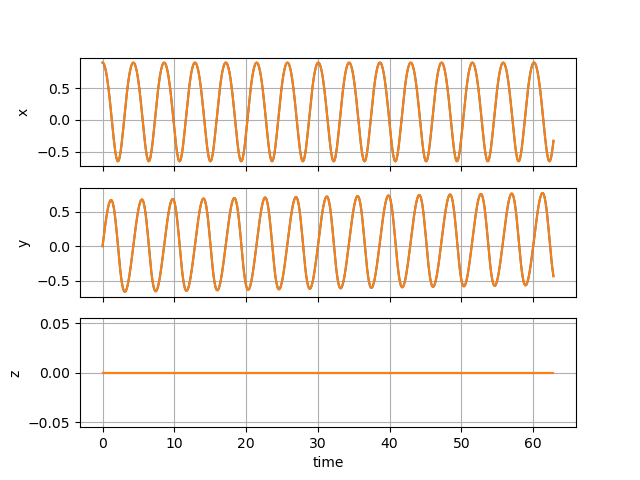
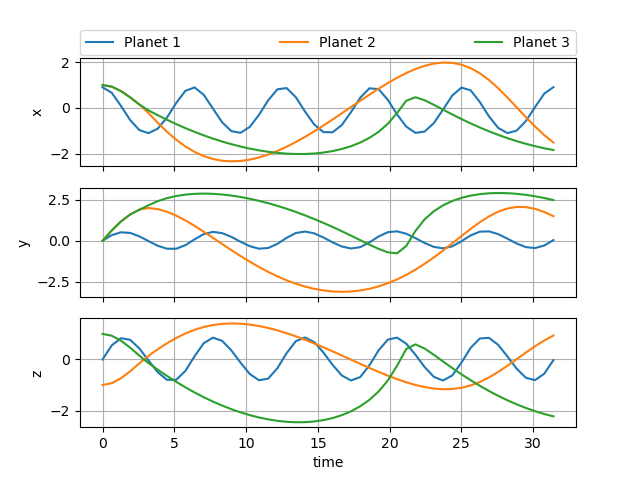
modification graphics

diff --git a/python/visualize_orbit.py b/python/visualize_orbit.py
@@ -3,15 +3,15 @@ import rebound
 import numpy as np
 import matplotlib
 import matplotlib.pyplot as plt
-# Create Simulation object
+#--------------- Create Simulation object
 def setup():
     sim = rebound.Simulation()
     sim.add( m=1. )                         # sun
     sim.add( m=1e-3, a=1., e=0.1, inc = 45 )          # Planet 1 (Jupiter)
-    sim.add( m=1e-3, a=1.001, e=0.1, inc = 0 )           # lesser Planet 2 (fictional)
-    # sim.add( m=1e-6, a=1., e=0.2, inc = 0 )         # Planet 3 (fictional)
+    sim.add(m=1e-3, x=1., y=0., z= -1., vx=0, vy=1, vz=0 )           # lesser Planet 2 (fictional)
+    sim.add( m=1e-3, x=1., y=0., z= 1., vx=0, vy=1, vz=0 )         # Planet 3 (fictional)
     return sim
-
+#------------- calculate
 def PAFintegrate(arbsim ,tmax, Ntimes):
     # setting time scale
     times = np.linspace(0,tmax,Ntimes)
@@ -29,52 +29,62 @@ def PAFintegrate(arbsim ,tmax, Ntimes):
         for k in range(1,arbsim.N,1):
             x[i,k-1] = particles[k].x
             y[i,k-1] = particles[k].y
+            z[i,k-1] = particles[k].z
     return arbsim, times, x, y, z
 
-sim1 = setup()
-tmax = 10 * 2*np.pi
-Ntimes = 1000
-sim1, times, x, y, z = PAFintegrate(sim1, tmax, Ntimes)
 #-------------------- test plotting ----------------------------
 # fig1 = plt.figure(figsize=(5,5))
 # plt.plot(times2,x2)
 # fig1.savefig("test.png")
-#--------------------   plotting    ----------------------------
-def plotabsolutes(x,y,z):
+#--------------------   plotting xyz   ----------------------------
+def plotabsolutes(x,y,z,n):
     axes = ()
     fig1, (ax1,ax2,ax3) = plt.subplots(3, 1)
-
     ax1 = plt.subplot(311)
-    ax1.set( ylabel= 'x')
-    ax1.plot(times, x)
-    plt.setp(ax1.get_xticklabels(), visible=False)
-    ax1.grid()
-    #---------
     ax2 = plt.subplot(312, sharex=ax1)
-    ax2.set(ylabel = 'y')
-    ax2.plot(times,y)
-    plt.setp(ax2.get_xticklabels(), visible=False)
-    ax2.grid()
-    #---------
     ax3 = plt.subplot(313, sharex=ax1)
-    ax3.set(xlabel = 'time', ylabel = 'z')
-    ax3.plot(times,z)
-    ax3.grid()
+    for k in range(n):
+        ax1.set( ylabel= 'x')
+        ax1.plot(times, x[:,k], label = 'Planet %d' %(k+1))
+        plt.setp(ax1.get_xticklabels(), visible=False)
+        ax1.grid()
+        ax1.legend(bbox_to_anchor=(0., 1.02, 1., .102), loc='lower left',
+           ncol=n, mode="expand", borderaxespad=0.)
+        # ax1.legend()
+        #---------
+        ax2.set(ylabel = 'y')
+        ax2.plot(times,y[:,k])
+        plt.setp(ax2.get_xticklabels(), visible=False)
+        ax2.grid()
+        #---------
+        ax3.set(xlabel = 'time', ylabel = 'z')
+        ax3.plot(times,z[:,k])
+        ax3.grid()
+
 
     fig1.savefig('real1.png')
-
-def plotphase(x,y):
+#------------------ plot phase diagram (only useful for two coordinate)
+def plotphase(x1,x2):
     fig, ax1 = plt.subplots(1,1)
-    ax1.set(ylabel ='y', xlabel = 'x')
-    ax1.plot(x,y)
+    ax1.set(ylabel ='x2', xlabel = 'x1')
+    ax1.plot(x1,x2,'o-')
     ax1.grid()
     fig.savefig('real2.png')
 
+def PAForbitplot(sim, fancy = True, color=True, lw=2):
+    fig, ax = rebound.OrbitPlot(sim)
+    fig.savefig('orbitplot.png')
 
-
-plotabsolutes(x,y,z)
+#---------------- the real deal ---------------
+sim1 = setup()
+# sim1.status()
+PAForbitplot(sim1)
+# sim1.status()
+a = 5
+tmax = a * 2*np.pi
+Ntimes = a*10
+sim1, times, x, y, z = PAFintegrate(sim1, tmax, Ntimes)
+#sim1.status()
+plotabsolutes(x,y,z,sim1.N-1)
 plotphase(x,y)
-# ax4 = plt.subplot(412)
-# ax4.set(xlabel = 'x', ylabel = 'y')
-# plt.plot(x,y)
-# ax4.grid()
+#sim1.status()
